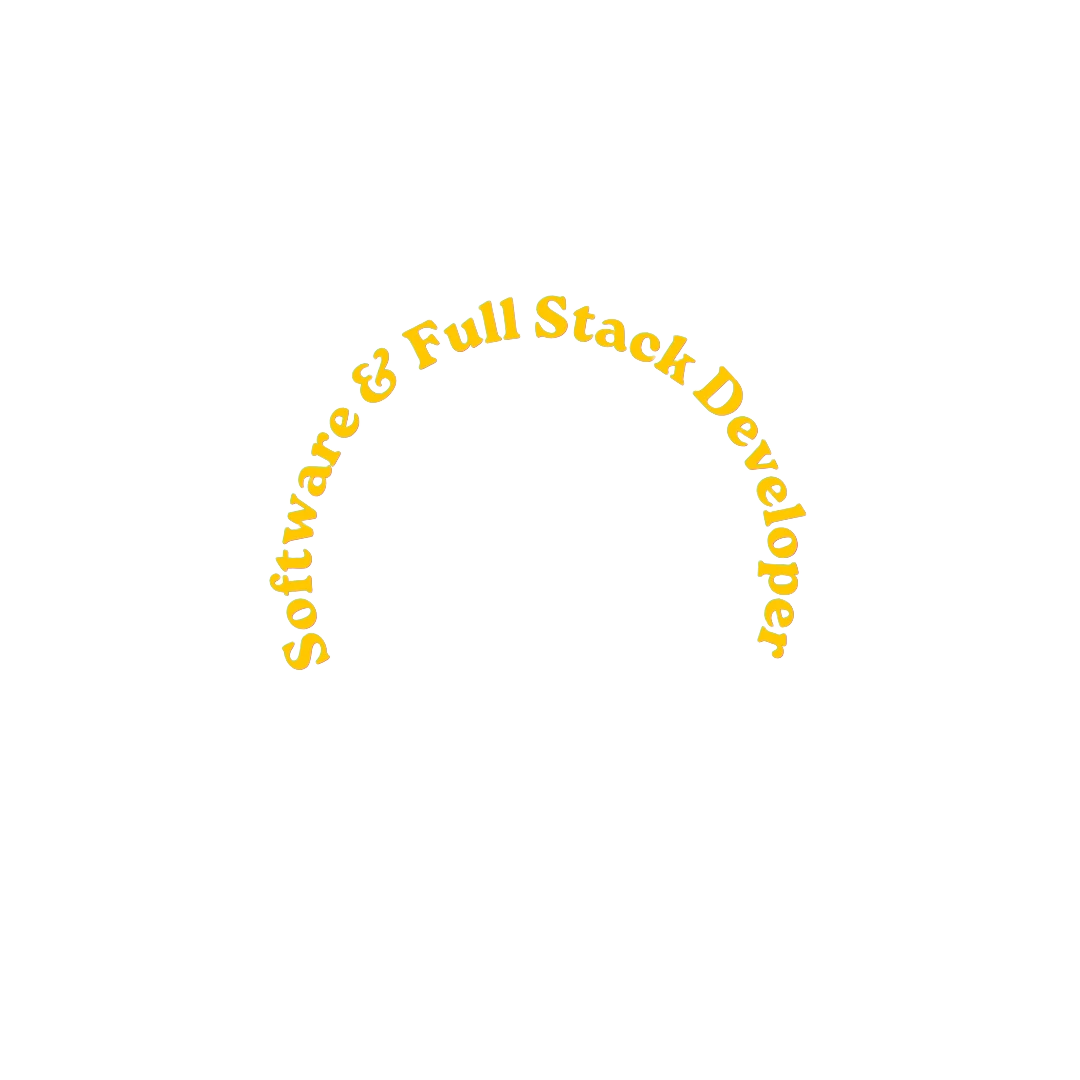
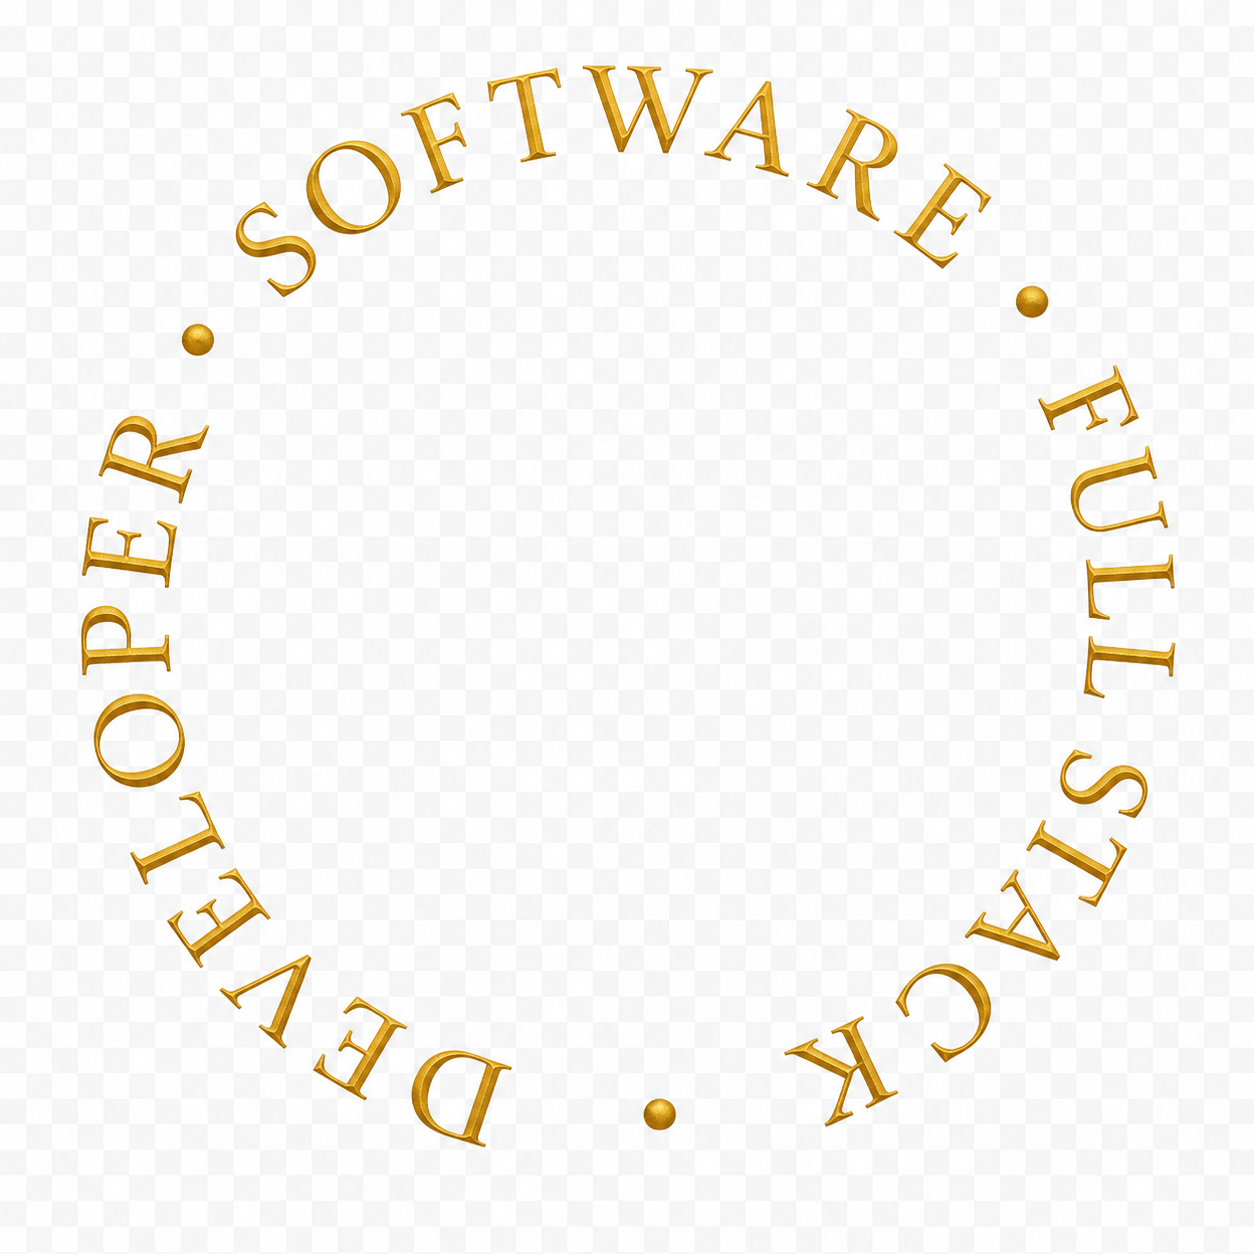
honda

diff --git a/client/components/About.jsx b/client/components/About.jsx
@@ -61,14 +61,37 @@ export default function About() {
             <h2 className="text-center text-5xl font-Ovo">About me</h2>
 
             <div className="flex w-full flex-col lg:flex-row items-center gap-20 my-20">
-                <div className="max-w-max mx-auto relative">
-                    <img src='/assets/profile2.png' alt="" className="w-64 sm:w-80 rounded-3xl max-w-none" />
+                <div className="relative flex justify-center items-center">
 
-                    <div className="bg-white w-1/2 aspect-square absolute right-0 bottom-0 rounded-full translate-x-1/4 translate-y-1/3 shadow-[0_4px_55px_rgba(149,0,162,0.15)] flex items-center justify-center">
-                        <img src="/assets/circular.png" alt="" className="w-full animate-spin_slow" />
-                         <img src="/assets/dev-icon.png" alt="" className="w-1/4 absolute top-1/2 left-1/2 -translate-x-1/2 -translate-y-1/2" />
-                    </div>
-                </div>
+  <div className="absolute w-72 h-72 rounded-full bg-gradient-to-r from-cyan-500/30 via-purple-500/30 to-pink-500/30 blur-3xl"></div>
+
+  <div className="relative max-w-max mx-auto">
+
+  <img
+    src="/assets/profile2.png"
+    alt=""
+    className="w-72 sm:w-80 rounded-3xl"
+  />
+
+  <div className="absolute -bottom-4 -right-4 w-24 h-24 sm:w-28 sm:h-28 rounded-full bg-[#1d1d1d] border border-white/10 shadow-2xl flex items-center justify-center">
+
+    <img
+      src="/assets/circular.png"
+      alt=""
+      className="absolute inset-0 w-full h-full animate-spin_slow"
+    />
+
+    <img
+      src="/assets/dev-icon.png"
+      alt=""
+      className="w-8 sm:w-10 z-10"
+    />
+
+  </div>
+
+</div>
+
+</div>
                 <div className="flex-1">
                     <p className="mb-10 max-w-2xl font-Ovo">Software Developer and Full-Stack Developer with a strong foundation in modern web technologies. Passionate about creating high-quality applications, solving complex problems, and delivering impactful digital experiences.</p>
 